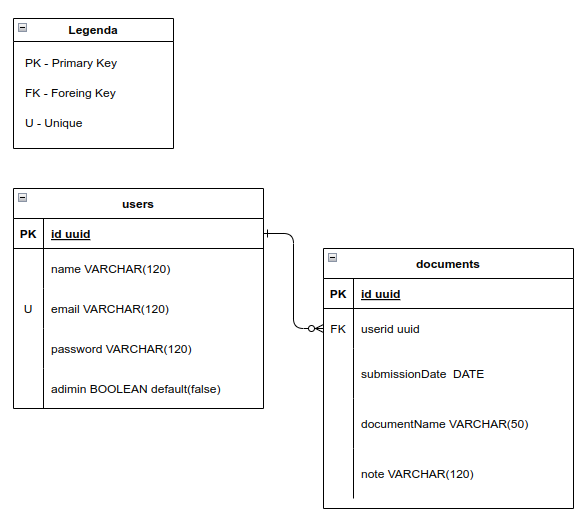
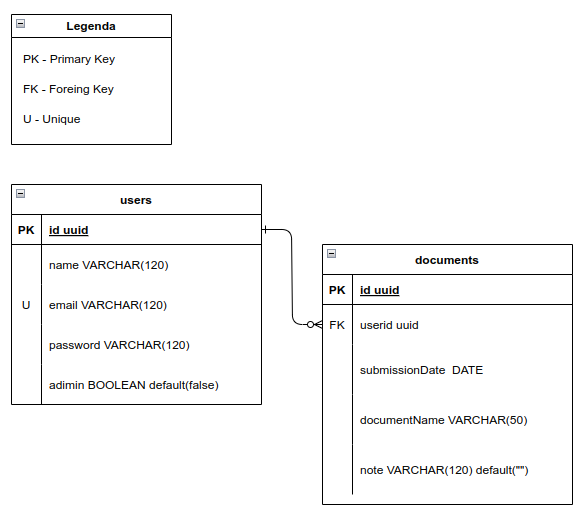
fix:  default on note column

diff --git a/src/migrations/1743360350678-defaultNoteColumn.ts b/src/migrations/1743360350678-defaultNoteColumn.ts
@@ -1,0 +1,14 @@
+import { MigrationInterface, QueryRunner } from "typeorm";
+
+export class DefaultNoteColumn1743360350678 implements MigrationInterface {
+    name = 'DefaultNoteColumn1743360350678'
+
+    public async up(queryRunner: QueryRunner): Promise<void> {
+        await queryRunner.query(`ALTER TABLE "documents" ALTER COLUMN "note" SET DEFAULT ''`);
+    }
+
+    public async down(queryRunner: QueryRunner): Promise<void> {
+        await queryRunner.query(`ALTER TABLE "documents" ALTER COLUMN "note" DROP DEFAULT`);
+    }
+
+}

diff --git a/src/entities/document.entity.ts b/src/entities/document.entity.ts
@@ -12,7 +12,7 @@ export class Document {
   @Column({ length: 50 })
   documentName: string;
 
-  @Column({ length: 50 })
+  @Column({ length: 50, default: "" })
   note: string;
 
   @ManyToOne(() => User, (u) => u.documents, {
